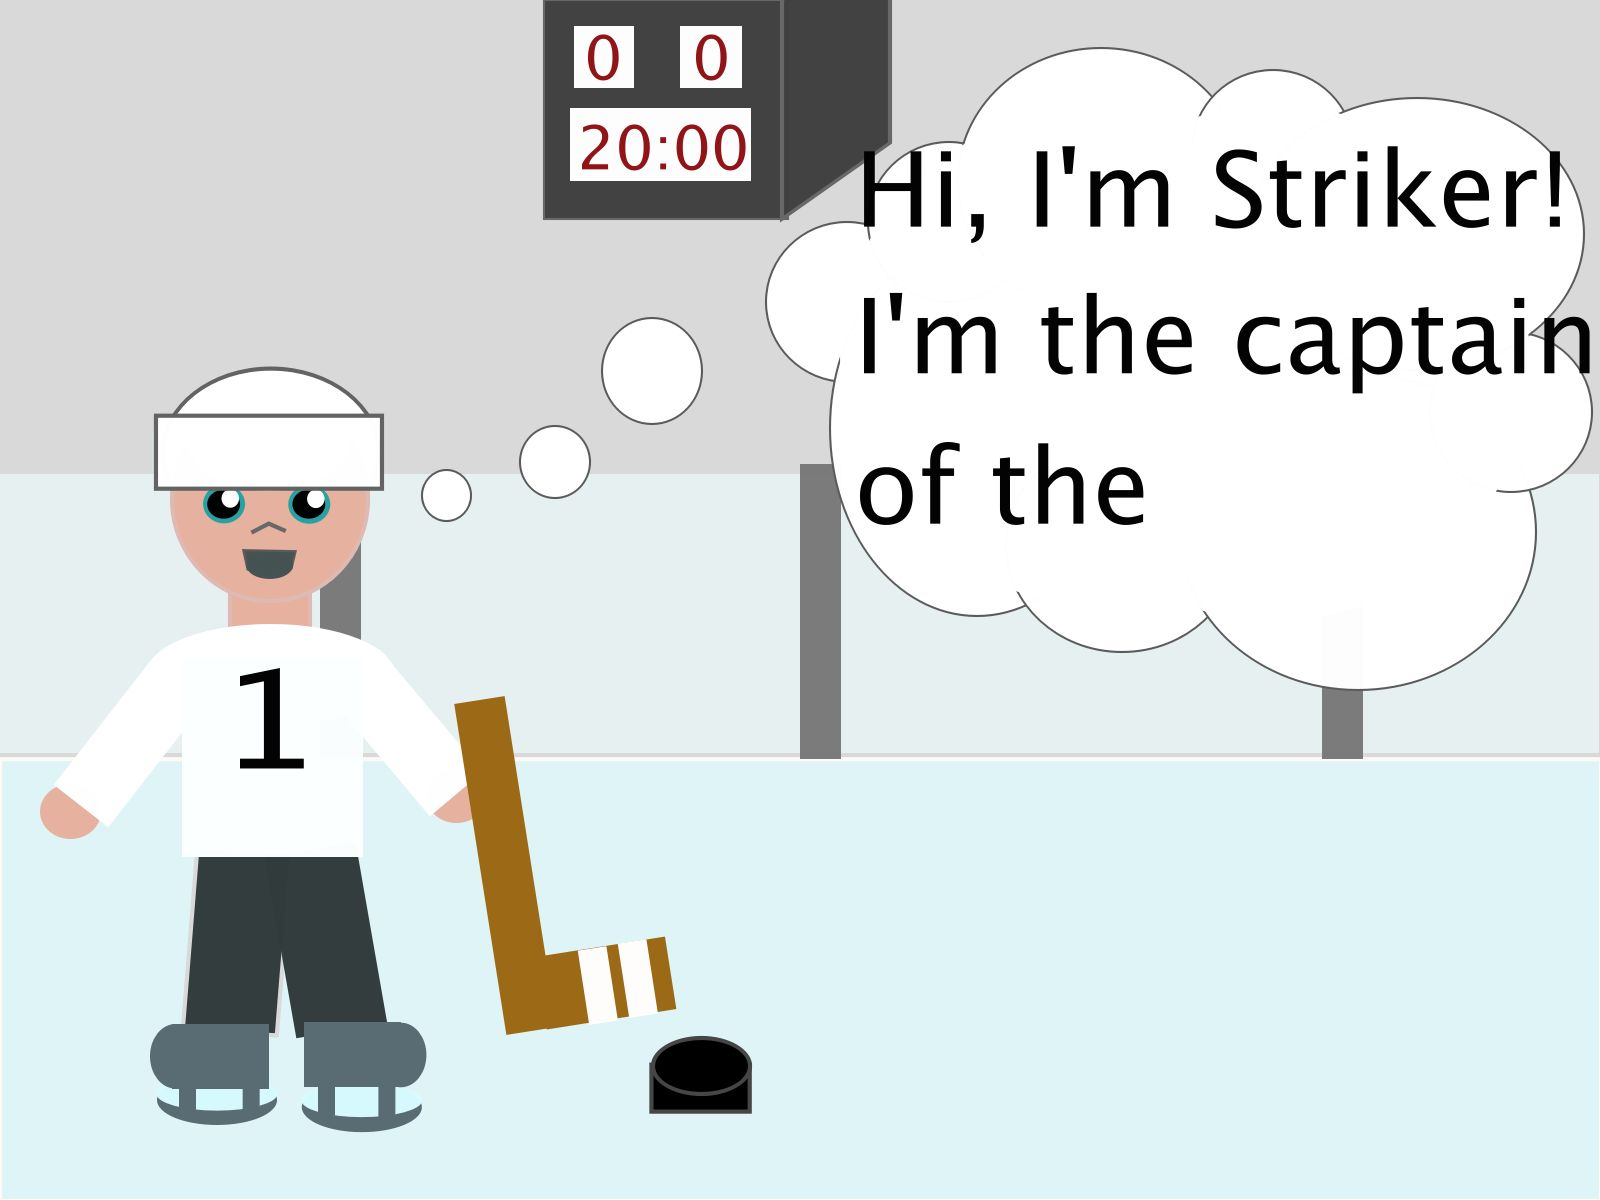
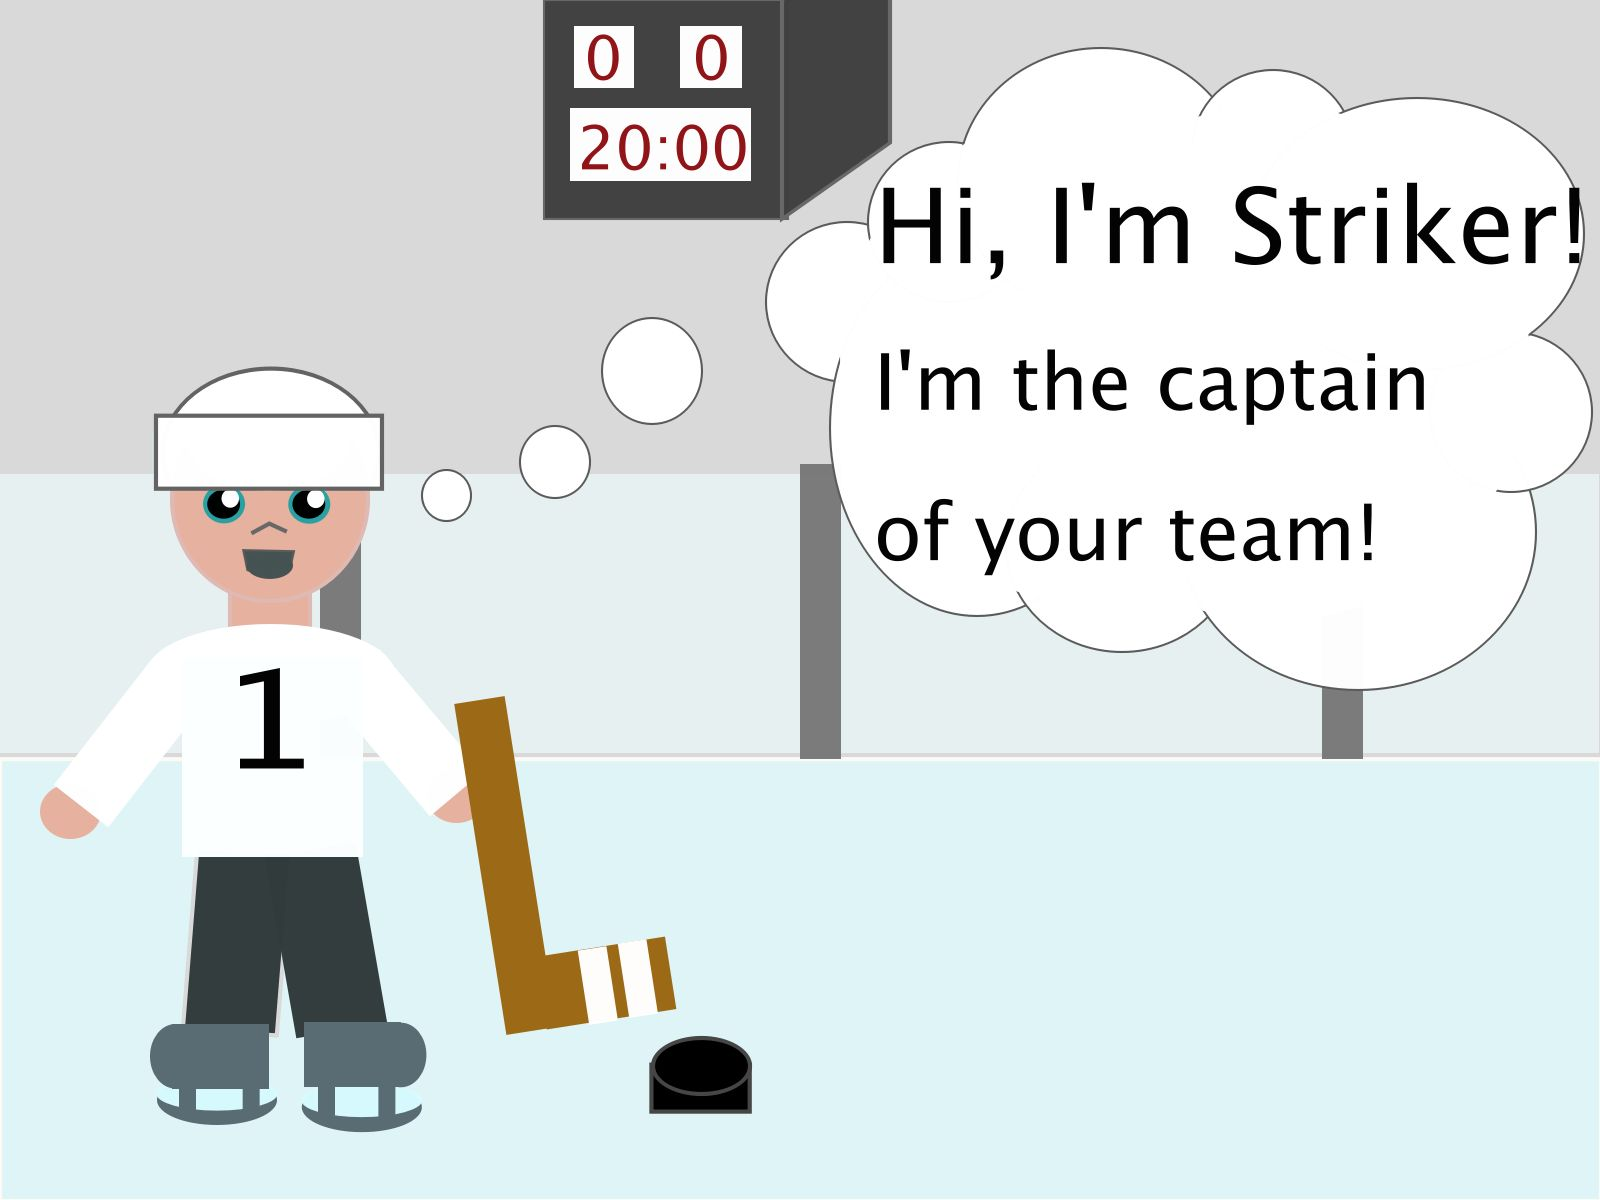
Update intro cutscenes
Intro cutscenes no longer include references to team names.

Changed region(s): [[0.5312, 0.1233, 1.0, 0.3392], [0.5312, 0.37, 0.875, 0.4933]]

diff --git a/HockeyGameUnity/Assets/Scripts/IntroScript.cs b/HockeyGameUnity/Assets/Scripts/IntroScript.cs
@@ -16,7 +16,7 @@ public class IntroScript : MonoBehaviour {
 	void Start () {
 		cutscenes = Resources.LoadAll<Sprite> ("Intro/Cutscene");
 		primary_masks = Resources.LoadAll<Sprite> ("Intro/primary_mask");
-        current_image = GameObject.Find("Cutscene1").GetComponent<SpriteRenderer> ();
+        current_image = GameObject.Find("Cutscene01").GetComponent<SpriteRenderer> ();
 		primary_mask = GameObject.Find("primary_mask").GetComponent<SpriteRenderer> ();
 
         SpriteRenderer secondary_mask = GameObject.Find("secondary_mask").GetComponent<SpriteRenderer>();
